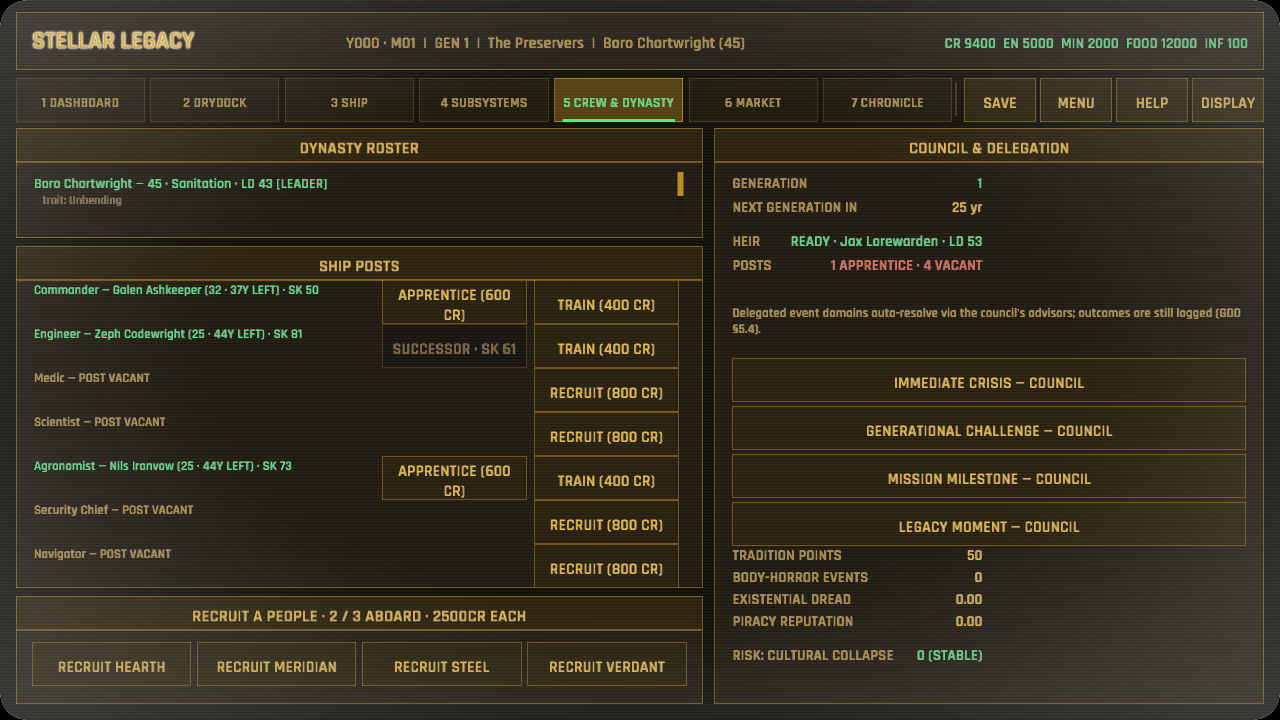
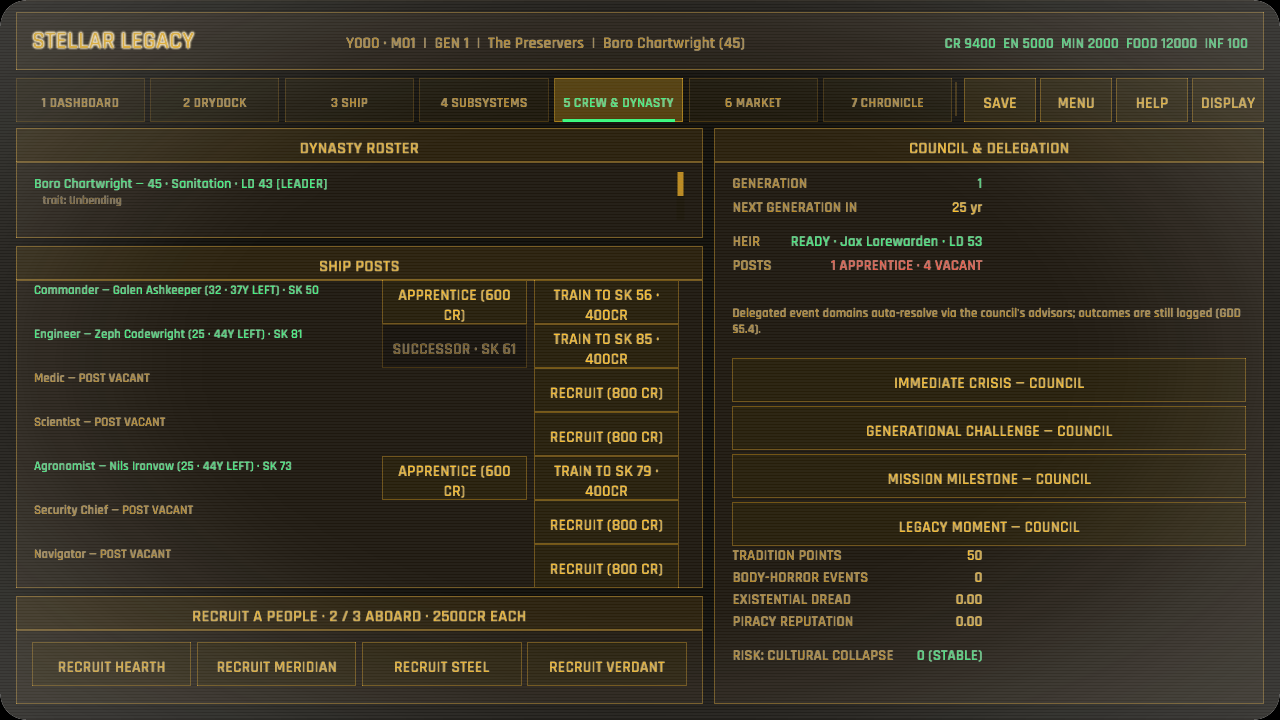
Every training berth names the officer it will make (crew skill projection)
Training controls quoted only their credit cost, leaving the resulting expertise implicit and making capped training especially hard to value. Each occupied post now shows the exact skill it will reach after the configured gain, capped at that archetype's mastery ceiling, while mastered and unaffordable states retain their distinct labels. Tests cover ordinary, capped, mastered, and underfunded cases, and the recruitment capture verifies the projections fit the touch controls.

Changed region(s): [[0.4375, 0.3972, 0.5312, 0.5194], [0.4375, 0.6417, 0.5312, 0.7028]]

diff --git a/src/ui/crew_dynasty.rs b/src/ui/crew_dynasty.rs
@@ -30,6 +30,16 @@ fn priced_action_label(action: &str, cost: i64, credits: i64) -> String {
     }
 }
 
+fn training_label(skill: u32, maximum: u32, gain: u32, cost: i64, credits: i64) -> String {
+    if skill >= maximum {
+        "MASTERED".to_owned()
+    } else if credits < cost {
+        format!("NEED {cost} CR")
+    } else {
+        format!("TRAIN TO SK {} · {cost}CR", (skill + gain).min(maximum))
+    }
+}
+
 pub fn draw(ctx: &GameplayCtx<'_>, area: Rect, pointer: Pointer, actions: &mut Vec<UiAction>) {
     let left = Rect::new(area.x, area.y, area.w * 0.55, area.h);
     let right = Rect::new(left.right() + 12.0, area.y, area.w - left.w - 12.0, area.h);
@@ -370,15 +380,13 @@ fn draw_posts(ctx: &GameplayCtx<'_>, rect: Rect, pointer: Pointer, actions: &mut
                 }
                 if term_button(
                     Rect::new(content.right() - 150.0, y - 14.0, 144.0, POST_BUTTON_H),
-                    &if maxed {
-                        "MASTERED".to_owned()
-                    } else {
-                        priced_action_label(
-                            "TRAIN",
-                            crew_cfg.train_cost_credits,
-                            ctx.sim.resources.credits,
-                        )
-                    },
+                    &training_label(
+                        holder.skill,
+                        archetype.skill_max,
+                        crew_cfg.train_skill_gain,
+                        crew_cfg.train_cost_credits,
+                        ctx.sim.resources.credits,
+                    ),
                     !maxed && ctx.sim.resources.credits >= crew_cfg.train_cost_credits,
                     pointer,
                 ) {

diff --git a/src/ui/crew_dynasty/tests.rs b/src/ui/crew_dynasty/tests.rs
@@ -9,3 +9,17 @@ fn priced_crew_actions_explain_when_credits_are_missing() {
         "APPRENTICE (600 CR)"
     );
 }
+
+#[test]
+fn training_label_projects_the_capped_skill_gain() {
+    assert_eq!(
+        training_label(81, 100, 10, 400, 400),
+        "TRAIN TO SK 91 · 400CR"
+    );
+    assert_eq!(
+        training_label(96, 100, 10, 400, 400),
+        "TRAIN TO SK 100 · 400CR"
+    );
+    assert_eq!(training_label(100, 100, 10, 400, 400), "MASTERED");
+    assert_eq!(training_label(50, 100, 10, 400, 399), "NEED 400 CR");
+}
